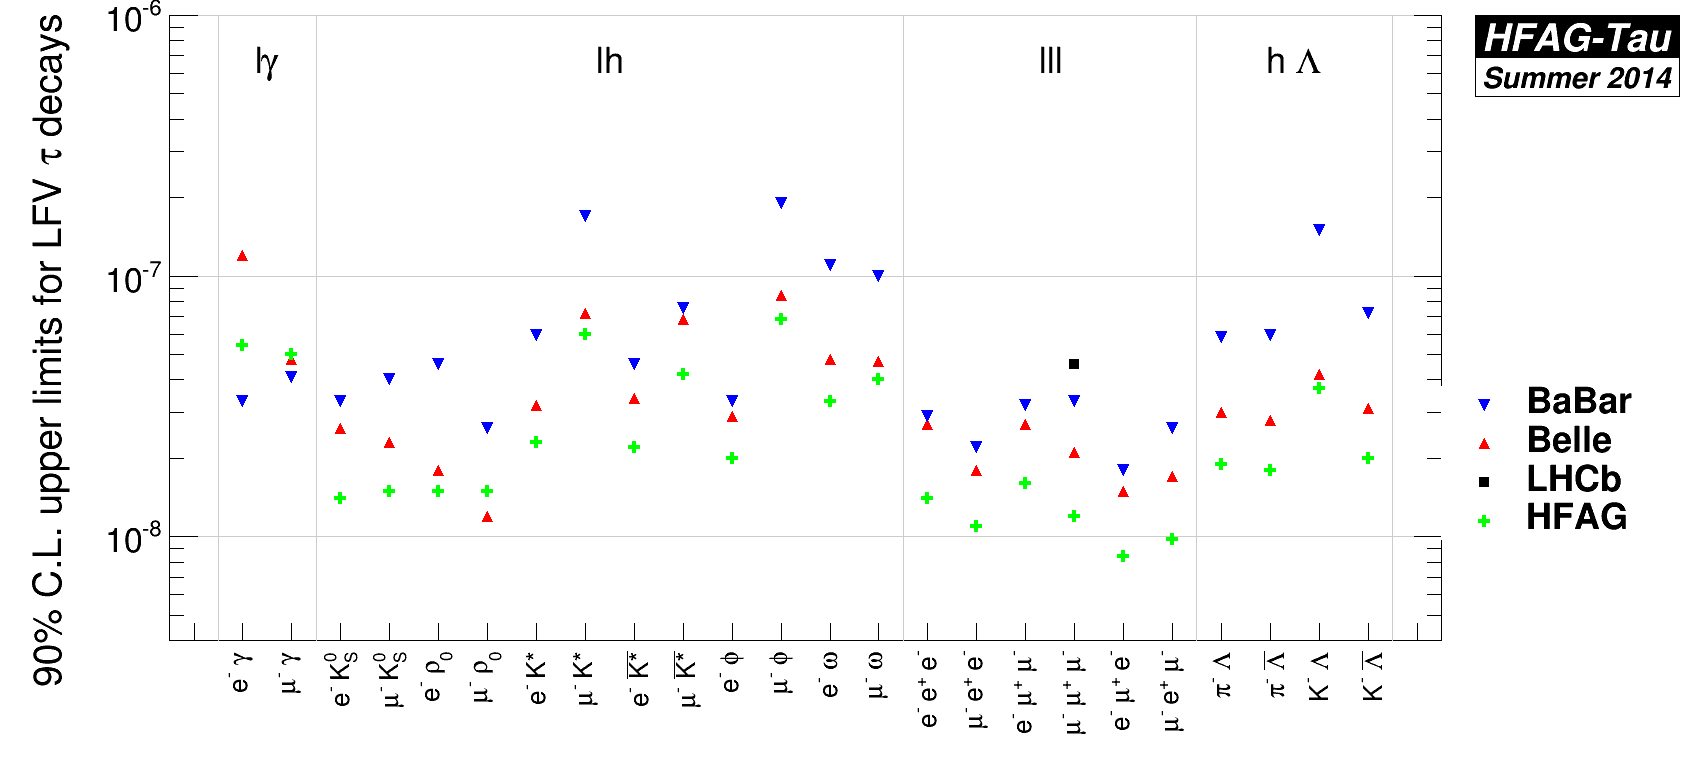
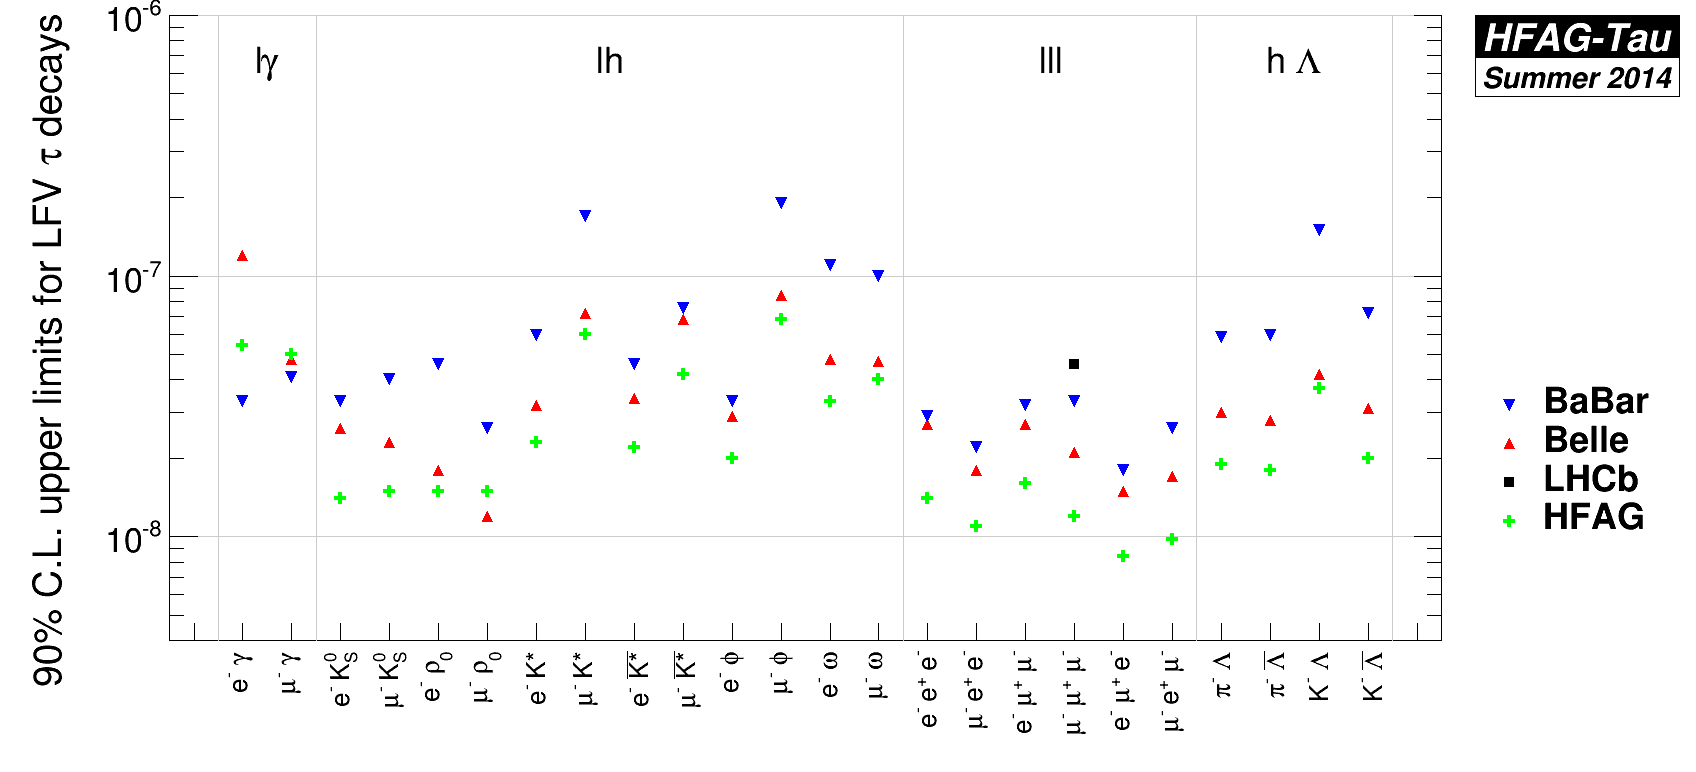
from CVS

Changed region(s): [[0.875, 0.4974, 0.9688, 0.6839]]

diff --git a/tau/2013/report/Summer14/tau/tau-lfv-combinations-plot.tex b/tau/2013/report/Summer14/tau/tau-lfv-combinations-plot.tex
@@ -15,11 +15,16 @@
           \imgsrc[alt="Tau LFV limits combinations plot" width=720]{TauLFV_UL_2014001_averaged.png}}}
     \end{tabular}
     \else
-    \includegraphics[angle=270,totalheight=0.9\textheight,clip]{figures/tau/TauLFV_UL_2014001_averaged.pdf}
+    \includegraphics[angle=270,totalheight=0.86\textheight,clip]{figures/tau/TauLFV_UL_2014001_averaged.pdf}
     \fi
     \caption{Tau lepton-flavour-violating branching fraction upper limits
       combinations summary plot. For each channel we report the HFAG
-      combined limit, and the experimental published limits.
+      combined limit, and the experimental published limits. In some cases,
+      the combined limit is weaker than the limit published by a single
+      experiment. This arises since the \cls method used in the
+      combination can be more conservative compared to other legitimate
+      methods, especially when the number of observed events fluctuates below the
+      expected background. 
       \label{fig:tau:lfv-limits-plot-average}
     }
   \end{center}

diff --git a/tau/2013/report/Summer14/tau/tau-lfv-combinations.tex b/tau/2013/report/Summer14/tau/tau-lfv-combinations.tex
@@ -17,7 +17,7 @@ information that documents the upper limit determination:
 number of observed candidates, expected background, signal efficiency and
 number of analyzed \mtau decays.
 
-We chose to use the \cls method~\cite{Mistlberger:2012rs} to re-compute the
+We chose to use the \cls method~\cite{Read:2002hq} to re-compute the
 \mtau LFV upper limits, since it is well known and widely used (see the
 Statistics review of PDG 2013~\cite{PDG_2012}), and since the
 limits computed with the \cls method can be combined in a straightforward
